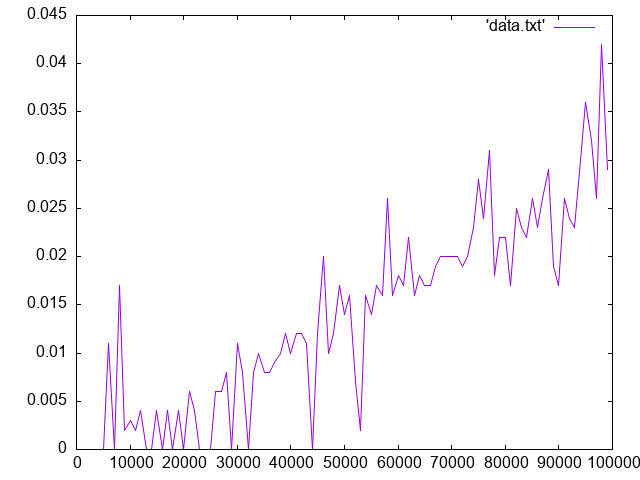
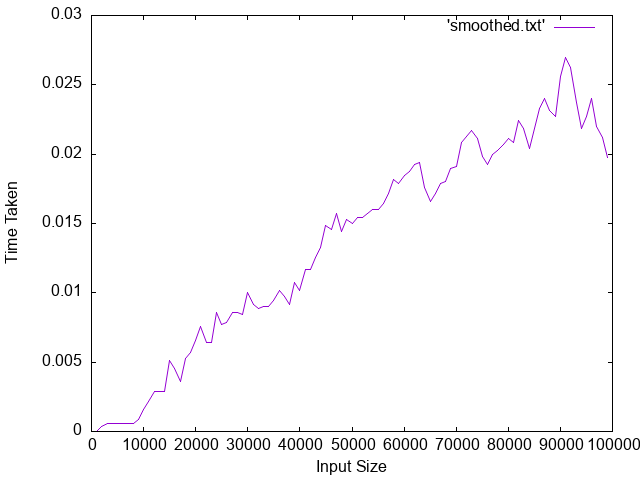
Smoother graph implemented

diff --git a/quicksort.c b/quicksort.c
@@ -1,6 +1,7 @@
 #include <stdio.h>
 #include <stdlib.h>
 #include <time.h>
+#define MAX_POINTS 200
 
 void swap(int arr[], int i, int j){
 	int temp=arr[i];
@@ -35,6 +36,23 @@ int* NumGen(int range, int* retArr){
 	return retArr; 
 }
 
+void moving_average(const double *in, double *out, int n, int window)
+{
+    int half=window/2;
+    for(int i=0;i<n;i++) {
+        double sum=0.0;
+        int count=0;
+
+        for(int j=i-half;j<=i+half;j++) 
+            if(j>=0&&j<n) {
+                sum+=in[j]; 
+                count++;
+            }
+        out[i]=sum/count; 
+    }
+}
+
+
 int main(void){
 	FILE* fptr2;
 	fptr2=fopen("data.txt","w");
@@ -49,14 +67,6 @@ int main(void){
 		int roll[range];
 		NumGen(range, roll);
 		
-		//Writing the Input Array to a file
-		FILE* fptr;
-		fptr=fopen("input.txt","w");
-		for(int i=0;i<range;i++)
-		fprintf(fptr,"%d ",roll[i]);
-		fprintf(fptr,"\n");
-		fclose(fptr);
-		
 		//Executing Quicksort
 		clock_t start,end;
 		start=clock();
@@ -64,13 +74,7 @@ int main(void){
 		quicksort(roll,0,len-1);
 		end=clock();
 		double time_taken = ((double)(end-start))/CLOCKS_PER_SEC; // in seconds 
-		
-		//Appending output to file
-		fptr=fopen("input.txt","a");
-		for(int i=0;i<range;i++)
-		fprintf(fptr,"%d ",roll[i]);
-		fclose(fptr);
-		
+
 		//Logging time
 			FILE* fptr2;
 			fptr2=fopen("data.txt","a");
@@ -78,5 +82,25 @@ int main(void){
 			fclose(fptr2);
 	}
 	
-	system("gnuplot -e \"set terminal png; set output 'plot.png'; plot 'data.txt' with lines\"");
+	FILE *fp = fopen("data.txt", "r");
+	double x[MAX_POINTS];
+	double y[MAX_POINTS];
+	int n = 0;
+	while (n < MAX_POINTS && fscanf(fp, "%lf %lf", &x[n], &y[n]) == 2) {
+		n++;
+	}
+	fclose(fp);
+	
+	
+	double y_smooth[MAX_POINTS];
+	moving_average(y, y_smooth, n, 7);
+	
+	
+	FILE *out = fopen("smoothed.txt", "w");
+	for (int i = 0; i < n; i++) {
+		fprintf(out, "%lf %lf\n", x[i], y_smooth[i]);
+	}
+	fclose(out);
+	
+	system("gnuplot -e \"set terminal png; set output 'plot.png'; set xlabel 'Input Size'; set ylabel 'Time Taken'; plot 'smoothed.txt' with lines\"");
 }
